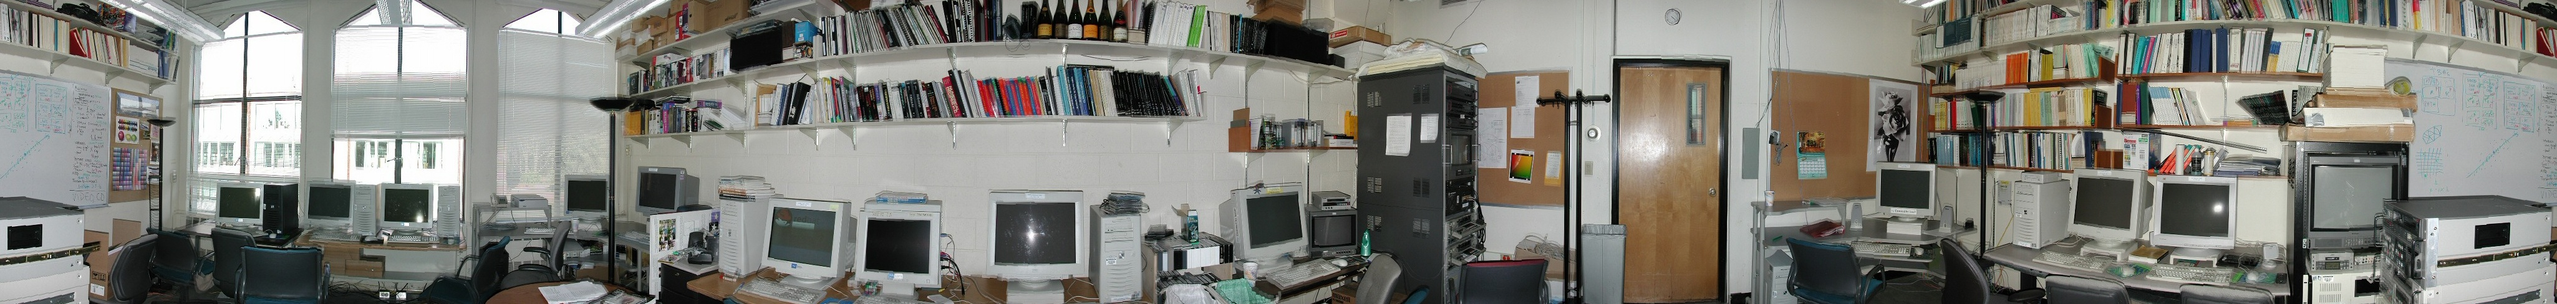
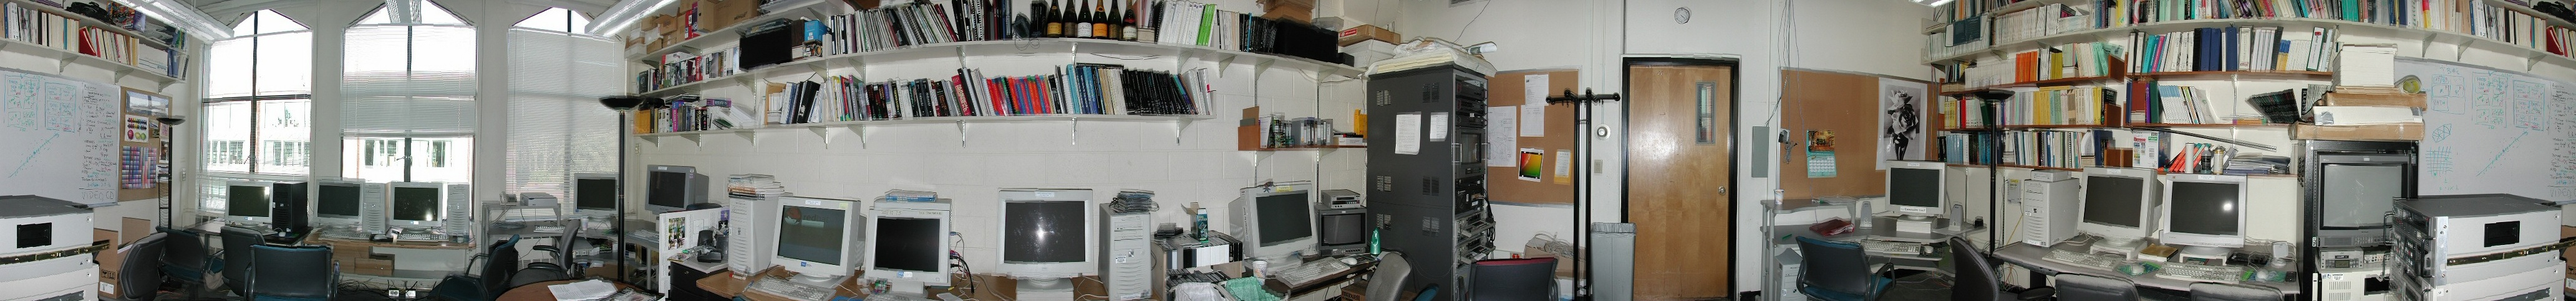
fix. modify cut h & w to only cut h and have new result

diff --git a/image_stitching_sift.py b/image_stitching_sift.py
@@ -205,7 +205,7 @@ def blend_two_images(shift_vec, ref_match, imgA, imgB):
 #############################
 # 3) Rectangling
 #############################
-def rectangle_crop(img, black_threshold=0, extra_margin=15):
+def rectangle_crop(img, black_threshold, extra_margin):
     """
     將輸入影像 (BGR) 中灰階大於 black_threshold 的像素視為有效區域，
     找到其最小外框並裁切，若全圖皆低於該值(幾乎全黑)就原圖返回。
@@ -233,11 +233,11 @@ def rectangle_crop(img, black_threshold=0, extra_margin=15):
     y_min, y_max = coords[0].min(), coords[0].max()
     x_min, x_max = coords[1].min(), coords[1].max()
 
-    # 4) 額外留白邊界(可往內切)
+    # 4) 額外留白邊界(只切上下邊界)
     y_min = max(0, y_min + extra_margin)
     y_max = min(h - 1, y_max - extra_margin)
-    x_min = max(0, x_min + extra_margin)
-    x_max = min(w - 1, x_max - extra_margin)
+    # x_min = max(0, x_min + extra_margin)
+    # x_max = min(w - 1, x_max - extra_margin)
 
     if y_min > y_max or x_min > x_max:
         # 調整後的範圍無效，直接回傳原圖或空影像
@@ -380,7 +380,8 @@ def run_panorama():
         mosaic = blend_two_images(shift_xy, pair, mosaic, cyl_imgs[i])
         print("實際拼接：第 %d / %d 張..." % (i, N - 1))
 
-    result_img = rectangle_crop(mosaic)
+    margin = input("請輸入裁切邊界 (預設 15)：").strip()
+    result_img = rectangle_crop(mosaic, 0, int(margin) if margin.isdigit() else 15)
     save_path = os.path.join(folder_path, "panoroma_sift.jpg")
     cv2.imwrite(save_path, result_img)
     print(f"全景拼接完成，輸出：{save_path}")

diff --git a/image_stitching_harris.py b/image_stitching_harris.py
@@ -406,11 +406,11 @@ def rectangle_crop(img, black_threshold, extra_margin):
     y_min, y_max = coords[0].min(), coords[0].max()
     x_min, x_max = coords[1].min(), coords[1].max()
 
-    # 4) 額外留白邊界(可往內切)
+    # 4) 額外留白邊界(只切上下邊界)
     y_min = max(0, y_min + extra_margin)
     y_max = min(h - 1, y_max - extra_margin)
-    x_min = max(0, x_min + extra_margin)
-    x_max = min(w - 1, x_max - extra_margin)
+    # x_min = max(0, x_min + extra_margin)
+    # x_max = min(w - 1, x_max - extra_margin)
 
     if y_min > y_max or x_min > x_max:
         # 調整後的範圍無效，直接回傳原圖或空影像
